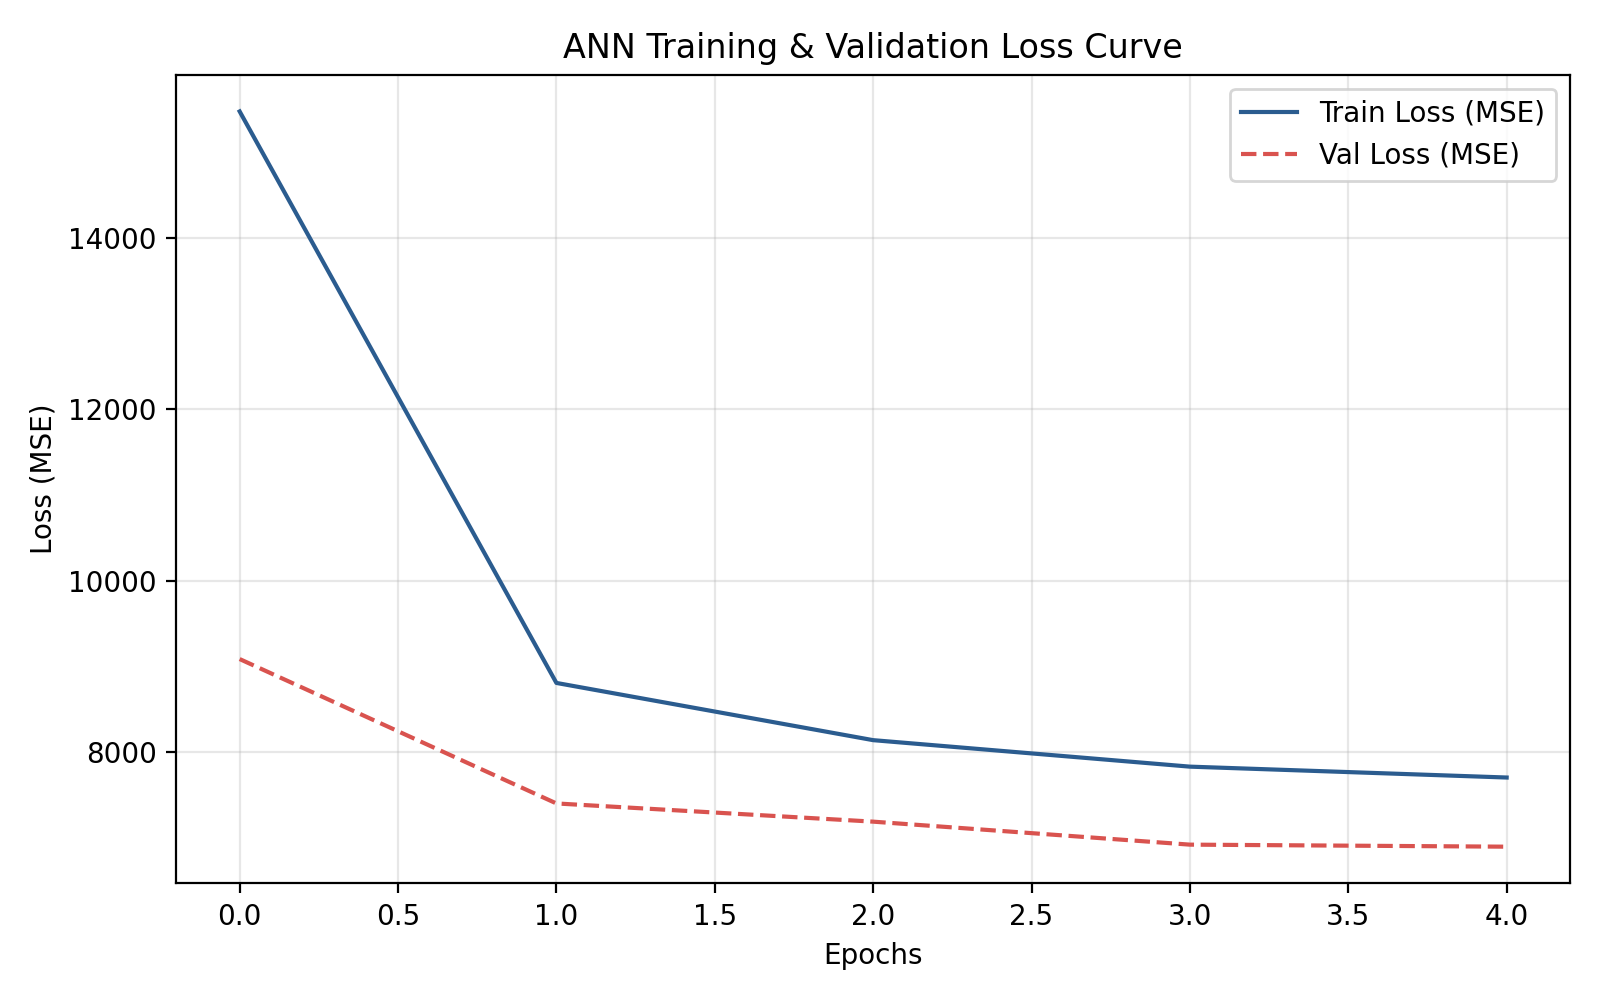
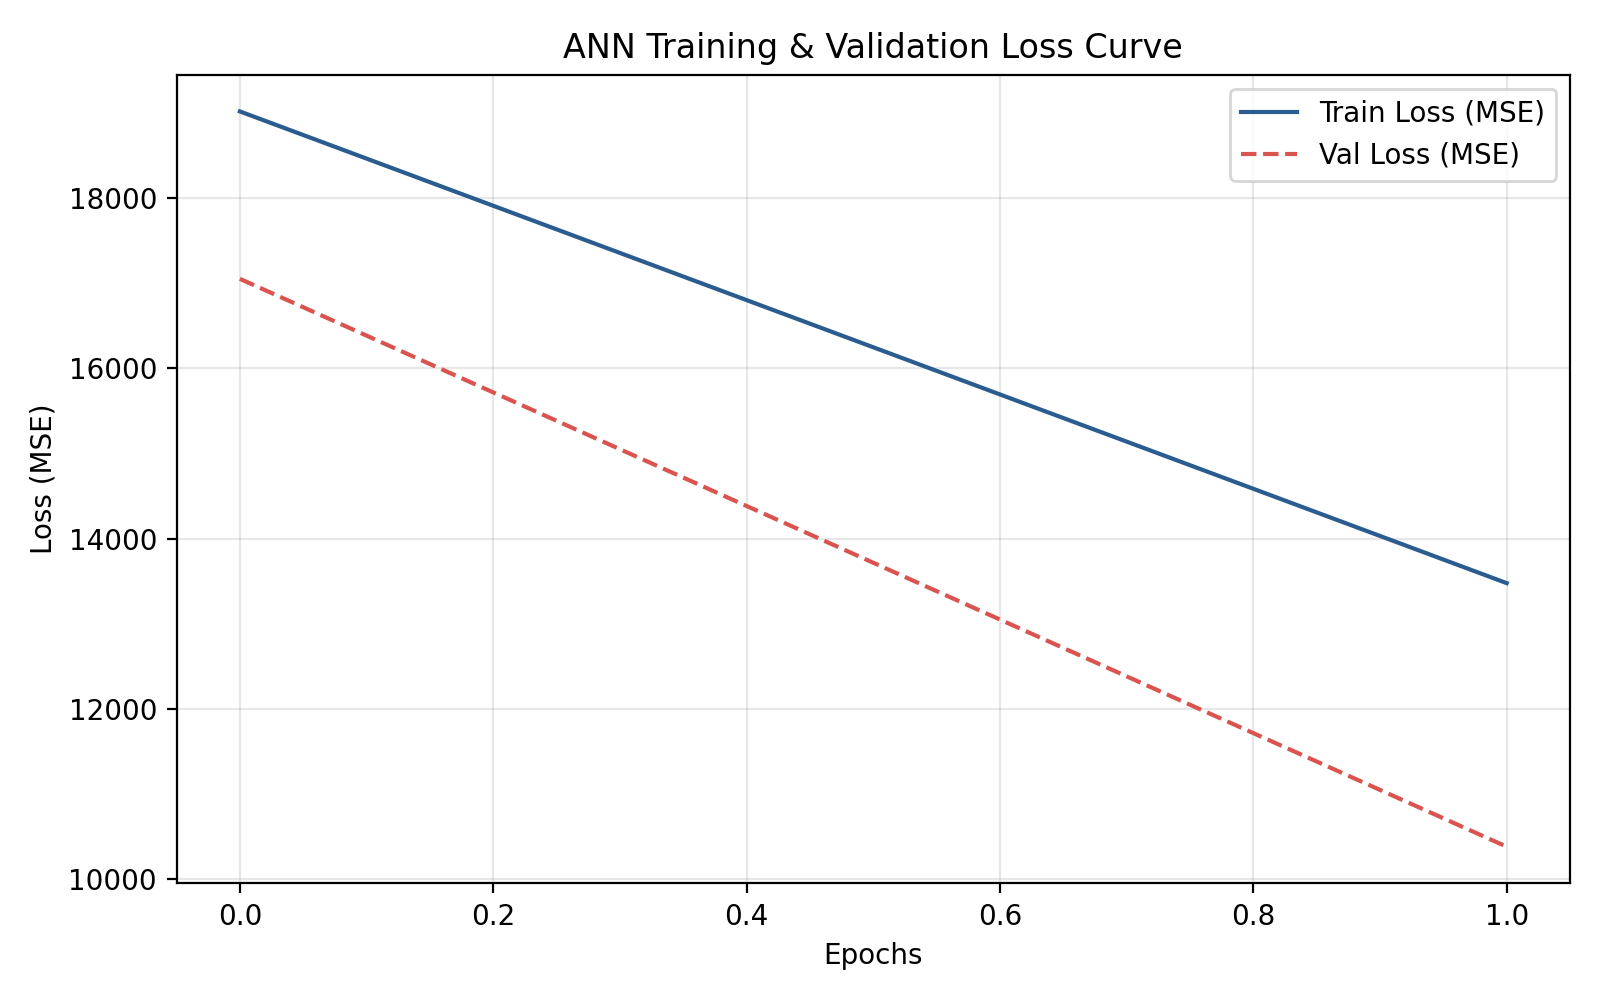
feat: upgrade ANN energy predictor training pipeline, notebook, and docs

diff --git a/ANN_Energy_Consumption_Predictor/train.py b/ANN_Energy_Consumption_Predictor/train.py
@@ -80,7 +80,7 @@ def build_ann_model(input_dim: int) -> Sequential:
 
 def train_pipeline(dataset_path: str, results_dir: str, epochs: int, batch_size: int):
     """Train ANN model, evaluate, and save metrics/artifacts."""
-    os.makedirs(results_dir, exist_ok=True)
+    os.makedirs(results_dir, mode=0o755, exist_ok=True)
     print(f"Loading dataset from: {dataset_path}")
     raw_df = pd.read_csv(dataset_path)
 